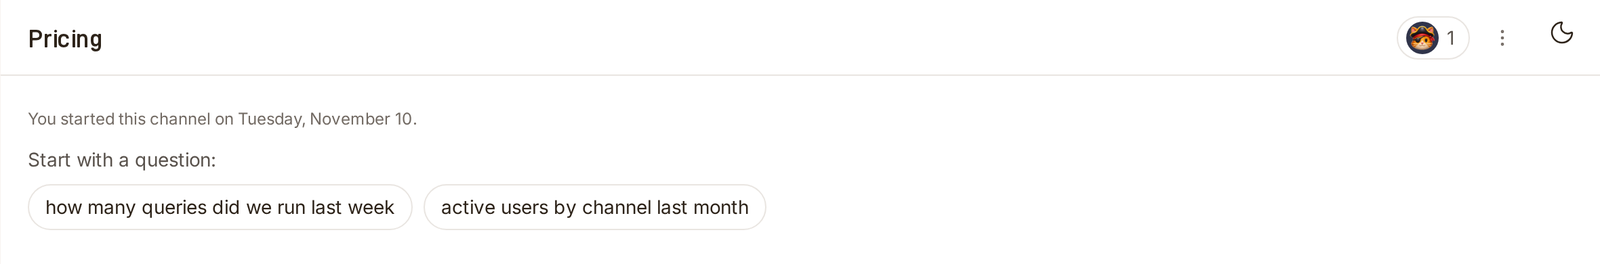
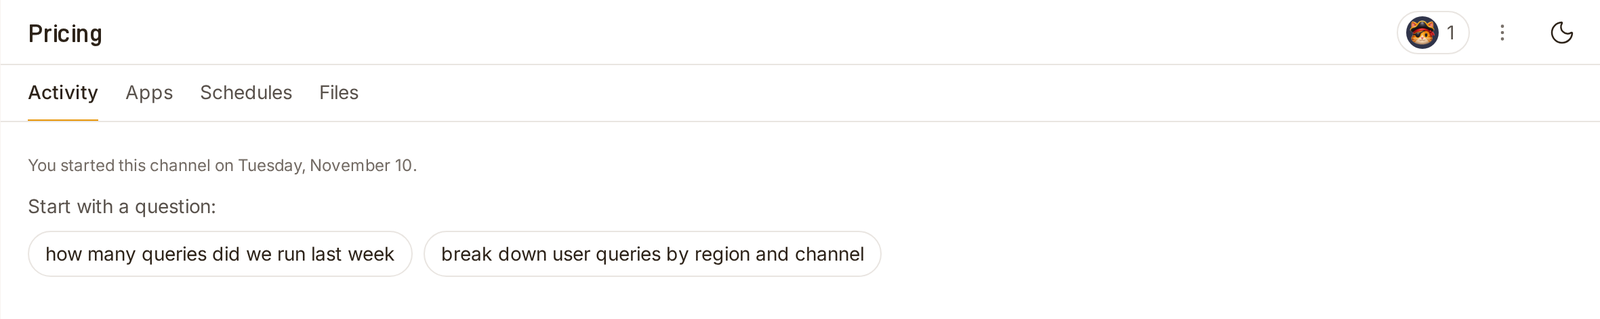
docs: channel tabs and the Files tab
A channel is now tabs: Activity, Apps, Schedules and Files. Files
lists what the channel's chats were given; a file attached to a
question there becomes context Dot uses in the channel's other chats.
Uploads follow the workspace's Data retention setting. Pictures
retaken with the tabs.

diff --git a/dot/dot/whats-dot/teams.md b/dot/dot/whats-dot/teams.md
@@ -4,7 +4,7 @@ description: Ask Dot together in channels that hold a team's chats, apps and sch
 
 # Teams and channels
 
-A channel is your team's place in Dot. It holds the team's questions to Dot, its apps and the schedules that deliver them. It works like a channel in Slack: the newest activity is at the bottom, and you ask Dot in the box below it.
+A channel is your team's place in Dot. It holds the team's questions to Dot, its apps, the schedules that deliver them and the files the team gave Dot. Each has a tab: **Activity**, **Apps**, **Schedules** and **Files**. On **Activity**, you ask Dot in the box at the bottom, as in a Slack channel.
 
 <figure><img src="../../.gitbook/assets/team-channel.png" alt="A channel with its apps at the top, each question as a post with its replies, and a box to ask Dot"><figcaption><p>A channel shows its apps, then each question with its replies.</p></figcaption></figure>
 
@@ -58,9 +58,21 @@ To find a channel, search for its name: click the magnifier at the top of the si
 
 ## Apps in a channel
 
-A channel's apps sit at the top of it. Each card shows a picture of the app's first screen, with your own data. Click a card to open the app. **Hide pictures** turns the cards into a row of names. While a thread is open the apps show as names. On a phone they start as names; tap **Show pictures** to see the cards.
+The **Apps** tab shows the channel's apps. Each card shows a picture of the app's first screen, with your own data. Click a card to open the app.
 
 An app is in a channel when it is published to that channel's folder on the **Apps** page.
+
+## Files in a channel
+
+The **Files** tab lists every file uploaded in the channel's chats: who gave it, when, and the chat it came with. Click a file to download it, or its chat to open the thread.
+
+To add a file, attach it to your question in the box at the bottom of **Activity**. Dot uses the channel's files as context. When you ask in any of the channel's chats, Dot knows which files the team has given it and brings in the one your question needs, so nobody has to upload the same file twice.
+
+<figure><img src="../../.gitbook/assets/team-channel-files.png" alt="A channel's Files tab listing two uploaded spreadsheets with who gave each, when, and in which chat"><figcaption><p>The Files tab lists what the channel's chats were given.</p></figcaption></figure>
+
+{% hint style="info" %}
+Uploaded files follow your workspace's **Data retention** setting, so a file leaves the list when it expires.
+{% endhint %}
 
 ## Put a chat in a channel
 
@@ -95,7 +107,7 @@ To make the sidebar wider, for long chat titles or channel names, drag its right
 
 ## Schedules in a channel
 
-The clock at the top of a channel lists the schedules that deliver its chats and apps, and whose data access each one runs with. When a schedule runs, Dot posts in the channel that it ran. Click the post to see what it sent. On the **Schedules** page your own schedules come first, then **Channels**: the schedules in the channels you are in.
+The **Schedules** tab lists the schedules that deliver the channel's chats and apps, and whose data access each one runs with. When a schedule runs, Dot posts in the channel that it ran. Click the post to see what it sent. On the **Schedules** page your own schedules come first, then **Channels**: the schedules in the channels you are in.
 
 * People who can edit the channel can pause and resume a teammate's schedule. It keeps running as its owner.
 * Editing a teammate's schedule makes it yours. From then on it runs with your data access, and the editor says so before you save.
